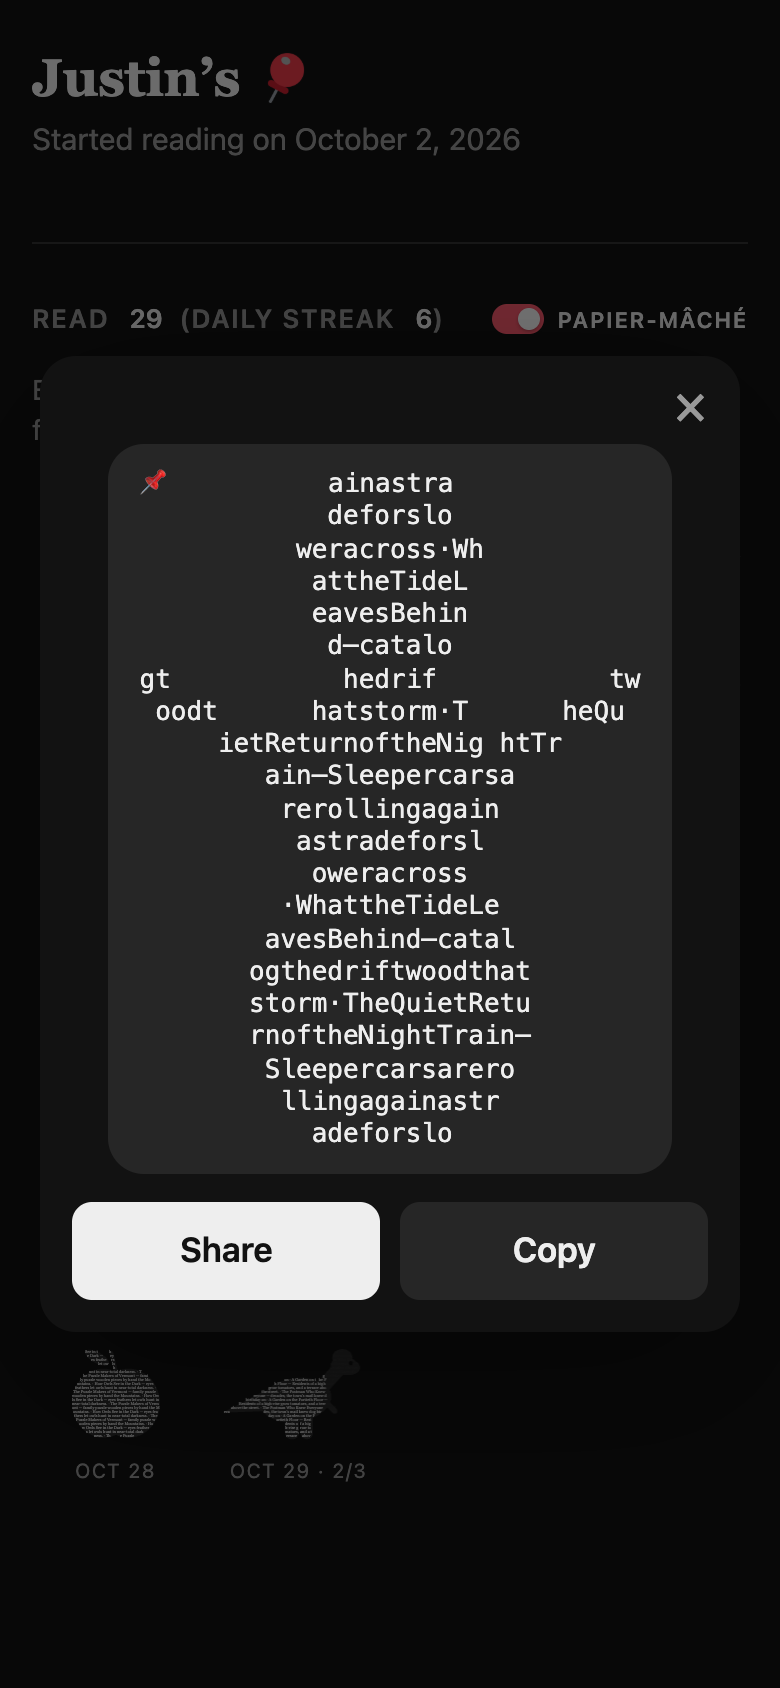
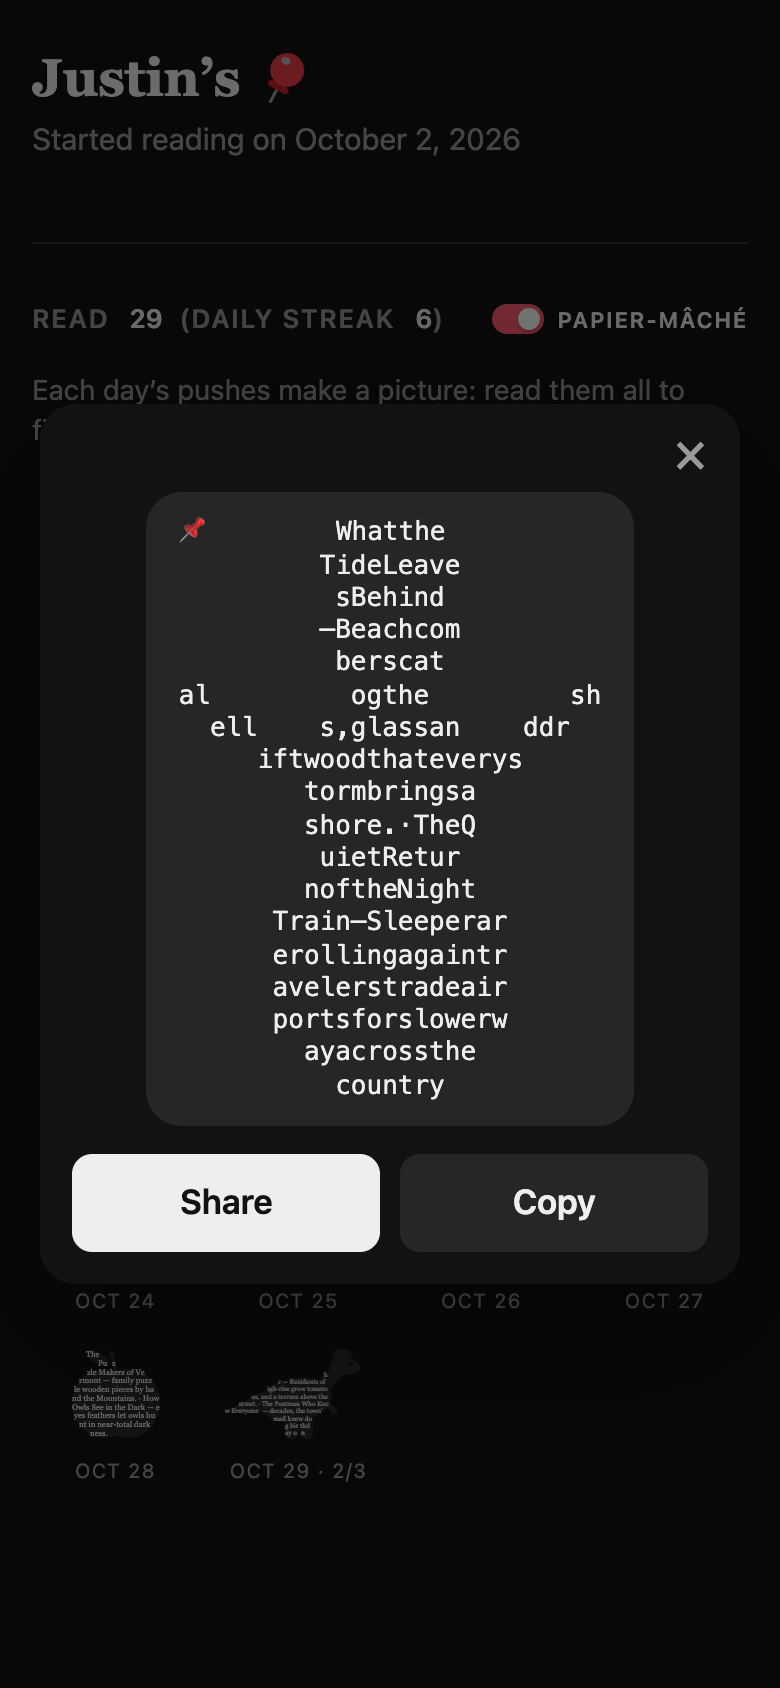
Daily pictures never repeat text: each title and abstract word used at most once; share grid sized to the words with random abstract words dropped to fit; profile pictures use the largest type that fits, in 3% steps

diff --git a/src/pushpin/cards.py b/src/pushpin/cards.py
@@ -604,23 +604,29 @@ function dino(c, w, h, flip, kind) {
   c.restore();
 }
 // Lays the words out inside the dinosaur's silhouette, w x h: [char, x, y] for each glyph.
-function layout(w, h, words, flip, kind, fs) {
+// Where the shape is, w x h: a test for whether a pixel is inside it.
+function silhouette(w, h, flip, kind) {
   const m = document.createElement('canvas'); m.width = w; m.height = h;
   const mc = m.getContext('2d'); dino(mc, w, h, flip, kind);
-  const mask = mc.getImageData(0, 0, w, h).data, inside = (x, y) => mask[(y * w + x) * 4 + 3] > 127;
-  const lh = Math.round(fs * 1.1);
+  const mask = mc.getImageData(0, 0, w, h).data;
+  return (x, y) => mask[(y * w + x) * 4 + 3] > 127;
+}
+// Lays the text out once inside the shape, w x h, in type of size fs: [char, x, y] for each
+// glyph, and whether all of the text fit. Nothing repeats; what doesn't fit is left out.
+function layout(w, h, text, inside, fs) {
+  const lh = fs * 1.1, mc = document.createElement('canvas').getContext('2d');
   mc.font = fs + 'px Georgia, "Times New Roman", serif';
-  const text = typeof words === 'string' ? words : words.join(' · ') + ' · ', widths = {};  // a day's text, or a list to join
-  const width = ch => widths[ch] ??= mc.measureText(ch).width;
+  const widths = {}, width = ch => widths[ch] ??= mc.measureText(ch).width;
   const glyphs = []; let i = 0;
-  for (let y = Math.round(lh / 2); y < h; y += lh) {
+  for (let row = lh / 2; row < h && i < text.length; row += lh) {
+    const y = Math.round(row);
     let x = 0;
-    while (x < w) {
+    while (x < w && i < text.length) {
       while (x < w && !inside(x, y)) x++;
       let end = x; while (end < w && inside(end, y)) end++;
-      let cx = x, guard = 0;
-      while (guard++ < 400) {
-        const ch = text[i % text.length];
+      let cx = x;
+      while (i < text.length) {
+        const ch = text[i];
         if (cx === x && ch === ' ') { i++; continue; }
         if (cx + width(ch) > end) break;
         glyphs.push([ch, cx, y]); cx += width(ch); i++;
@@ -628,16 +634,25 @@ function layout(w, h, words, flip, kind, fs) {
       x = end + 1;
     }
   }
-  return glyphs;
+  return {glyphs, fit: i >= text.length};
 }
-function draw(canvas, words, built, flip, animate, kind, delay) {
+// The largest type at which all of the text fits in the shape once, in steps of 3% so the text
+// fills the shape closely (whole pixels jump too far at small sizes).
+function fitted(w, h, text, inside, top) {
+  for (let fs = top; fs > 2; fs *= 0.97) {
+    const l = layout(w, h, text, inside, fs);
+    if (l.fit) return {...l, fs};
+  }
+  return {...layout(w, h, text, inside, 2), fs: 2};
+}
+function draw(canvas, text, built, flip, animate, kind, delay) {
   const dpr = window.devicePixelRatio || 1; let w = Math.round(canvas.clientWidth), h = Math.round(w * 0.64);
   canvas.style.height = h + 'px'; canvas.width = w * dpr; canvas.height = h * dpr;
   const c = canvas.getContext('2d');
   // laid out in device pixels, so the type can be smaller than a CSS pixel allows: the silhouette
   // reads at a glance, the headline up close
-  const W = w * dpr, H = h * dpr, fs = Math.max(3, Math.round(W / 44));
-  const glyphs = layout(W, H, words, flip, kind, fs);
+  const W = w * dpr, H = h * dpr;
+  const {glyphs, fs} = fitted(W, H, text, silhouette(W, H, flip, kind), Math.round(W / 4));
   [w, h] = [W, H];
   // a faint silhouette under the words: legs and spikes too thin for a letter still show
   const ghost = document.createElement('canvas'); ghost.width = w; ghost.height = h;
@@ -674,37 +689,51 @@ function draw(canvas, words, built, flip, animate, kind, delay) {
 // on a character grid, with spaces around it and a pin in the top left corner. It lines up in a
 // monospace font; in a chat's proportional one it leans and wobbles, which is part of the charm.
 const COLS = 32;
-function textDino(text, kind, flip) {
-  const w = 400, h = 256, m = document.createElement('canvas'); m.width = w; m.height = h;
-  const mc = m.getContext('2d'); dino(mc, w, h, flip, kind);
-  const a = mc.getImageData(0, 0, w, h).data, on = (x, y) => a[(y * w + x) * 4 + 3] > 127;
-  let x0 = w, x1 = 0, y0 = h, y1 = 0;  // crop to the dinosaur
+function textDino(day, kind) {
+  const w = 400, h = 256, on = silhouette(w, h, day.flip, kind);
+  let x0 = w, x1 = 0, y0 = h, y1 = 0;  // crop to the shape
   for (let y = 0; y < h; y++) for (let x = 0; x < w; x++) if (on(x, y)) {
     x0 = Math.min(x0, x); x1 = Math.max(x1, x); y0 = Math.min(y0, y); y1 = Math.max(y1, y);
   }
-  const cw = (x1 - x0 + 1) / COLS, ch = cw * 2, rows = Math.round((y1 - y0 + 1) / ch);  // a character is about twice as tall as wide
-  const cell = (c, r) => {  // inside when a good part of the cell is, so legs and spikes keep a letter
-    let n = 0, t = 0;
-    for (let y = Math.floor(y0 + r * ch); y < Math.min(y1 + 1, y0 + (r + 1) * ch); y++)
-      for (let x = Math.floor(x0 + c * cw); x < Math.min(x1 + 1, x0 + (c + 1) * cw); x++) { t++; if (on(x, y)) n++; }
-    return t && n / t > 0.3;
+  const grid = cols => {  // which cells of a cols-wide grid are inside the shape
+    const cw = (x1 - x0 + 1) / cols, ch = cw * 2, rows = Math.round((y1 - y0 + 1) / ch);  // a character is about twice as tall as wide
+    const cell = (c, r) => {  // inside when a good part of the cell is, so legs and spikes keep a letter
+      let n = 0, t = 0;
+      for (let y = Math.floor(y0 + r * ch); y < Math.min(y1 + 1, y0 + (r + 1) * ch); y++)
+        for (let x = Math.floor(x0 + c * cw); x < Math.min(x1 + 1, x0 + (c + 1) * cw); x++) { t++; if (on(x, y)) n++; }
+      return t && n / t > 0.3;
+    };
+    const cells = []; let count = 0;
+    for (let r = 0; r < rows; r++) { const row = []; for (let c = 0; c < cols; c++) { const v = cell(c, r); row.push(v); count += v; } cells.push(row); }
+    return {cells, count};
   };
-  const letters = text.replace(/\\s+/g, '');  // no spaces inside the shape, so it has no holes
-  const lines = []; let i = 0;
-  for (let r = 0; r < rows; r++) {
-    let line = '';
-    for (let c = 0; c < COLS; c++) line += cell(c, r) ? letters[i++ % letters.length] : ' ';
-    lines.push(line.trimEnd());
+  // Each title and abstract word at most once, no spaces inside the shape (so it has no holes):
+  // the widest grid the words can fill, then random abstract words dropped until they just fit.
+  const parts = day.parts.map(p => ({title: p.title.replace(/\\s+/g, ''), words: p.words.map(x => x.replace(/\\s+/g, ''))}));
+  const join = () => parts.map(p => p.title + (p.words.length ? '—' + p.words.join('') : '')).join('·');
+  let total = join().length, g = null;
+  for (let cols = COLS; cols >= 10 && !g; cols--) { const t = grid(cols); if (t.count <= total) g = t; }
+  g ??= grid(10);
+  const r = rng(day.seed + ':share'), pool = [];
+  parts.forEach((p, i) => p.words.forEach((_, j) => pool.push([i, j, r()])));
+  pool.sort((a, b) => a[2] - b[2]);
+  for (const [i, j] of pool) {
+    const n = parts[i].words[j].length + (parts[i].words.filter(Boolean).length === 1 ? 1 : 0);  // the dash goes with the last word
+    if (total - n >= g.count) { parts[i].words[j] = ''; total -= n; }
   }
+  parts.forEach(p => { p.words = p.words.filter(Boolean); });
+  const letters = join().slice(0, g.count).padEnd(g.count, '·');  // a few letters over, at most: cut at the end
+  let i = 0;
+  const lines = g.cells.map(row => row.map(v => v ? letters[i++] : ' ').join('').trimEnd());
   while (lines.length && !lines[0]) lines.shift();
   while (lines.length && !lines[lines.length - 1]) lines.pop();
-  // the pin in the top left corner, on the dinosaur's top line: it takes about two columns
-  if (!lines[0].startsWith('  ')) for (let i = 0; i < lines.length; i++) lines[i] = '   ' + lines[i];  // no room: shift it all over
+  // the pin in the top left corner, on the shape's top line: it takes about two columns
+  if (!lines[0].startsWith('  ')) for (let k = 0; k < lines.length; k++) lines[k] = '   ' + lines[k];  // no room: shift it all over
   lines[0] = '📌' + lines[0].slice(2);
   return lines.join('\\n');
 }
 let sheet = null;
-function share(text_, kind, flip) {
+function share(day, kind) {
   if (!sheet) {
     sheet = document.createElement('dialog'); sheet.className = 'sharecard';
     sheet.innerHTML = '<button type="button" class="x" aria-label="Close">×</button><pre></pre>'
@@ -713,7 +742,7 @@ function share(text_, kind, flip) {
     sheet.addEventListener('click', ev => { if (ev.target === sheet) sheet.close(); });  // the backdrop
     document.body.append(sheet);
   }
-  const text = textDino(text_, kind, flip), pre = sheet.querySelector('pre'), go = sheet.querySelector('.go'), copy = sheet.querySelector('.copy');
+  const text = textDino(day, kind), pre = sheet.querySelector('pre'), go = sheet.querySelector('.go'), copy = sheet.querySelector('.copy');
   pre.textContent = text; pre.setAttribute('aria-label', 'A ' + kind.name + ' drawn in text');
   go.hidden = !navigator.share;
   go.onclick = () => navigator.share({text}).catch(() => null);
@@ -728,15 +757,14 @@ const kindOf = herd(data.dataset.seed || '');
 // is seeded by the reader and the day, so a picture is the same each time it's drawn, no two days
 // match, and two readers who read the same articles the same day still get different pictures.
 function dayText(d) {
-  const r = rng((data.dataset.seed || 'demo') + ':' + d.day);
+  const seed = (data.dataset.seed || 'demo') + ':' + d.day, r = rng(seed);
   const flip = r() < 0.5;
-  if (!d.titles.length) return {text: '·', flip};
-  const parts = d.titles.map((t, i) => {
-    const kept = ((d.abstracts || [])[i] || '').split(/\\s+/).filter(w => w && r() < 0.55);
-    return kept.length ? t + ' — ' + kept.join(' ') : t;
-  });
-  const all = parts.join(' · ') + ' · ', at = Math.floor(r() * all.length);
-  return {text: all.slice(at) + all.slice(0, at), flip};
+  const parts = d.titles.map((title, i) => ({title, words: ((d.abstracts || [])[i] || '').split(/\\s+/).filter(Boolean)}));
+  const text = parts.length ? parts.map(p => {
+    const kept = p.words.filter(() => r() < 0.55);  // the picture on the profile: some of each abstract
+    return kept.length ? p.title + ' — ' + kept.join(' ') : p.title;
+  }).join(' · ') : '·';
+  return {text, flip, parts, seed};
 }
 const MONTHS = ['Jan', 'Feb', 'Mar', 'Apr', 'May', 'Jun', 'Jul', 'Aug', 'Sep', 'Oct', 'Nov', 'Dec'];
 function build(animate) {
@@ -753,7 +781,7 @@ function build(animate) {
       const tap = document.createElement('button');
       tap.type = 'button'; tap.className = 'dino'; tap.title = kind.name + ' · ' + when;
       tap.setAttribute('aria-label', 'Share the ' + kind.name + ' for ' + when);
-      tap.append(canvas); tap.addEventListener('click', () => share(day.text, kind, day.flip));
+      tap.append(canvas); tap.addEventListener('click', () => share(day, kind));
       fig.append(tap);
     } else {
       const still = document.createElement('div');  // not finished: nothing to share yet

diff --git a/tests/test_notifier.py b/tests/test_notifier.py
@@ -582,7 +582,7 @@ def test_demo_page_shows_dinosaurs_and_stores_nothing(setup):
     data = json.loads(re.search(r'id="papier-data"[^>]*>(.*?)</script>', page).group(1))
     assert len(data) == 22 and {"day": "2026-10-14", "sent": 2, "titles": [], "abstracts": []} in data  # a day with nothing read
     assert all(len(d["abstracts"]) == len(d["titles"]) and all(d["abstracts"]) for d in data)  # titles and abstracts
-    assert "function dayText(d)" in page and "rng((data.dataset.seed || 'demo') + ':' + d.day)" in page  # seeded per reader and day
+    assert "function dayText(d)" in page and "const seed = (data.dataset.seed || 'demo') + ':' + d.day, r = rng(seed)" in page  # seeded per reader and day
     assert store.reader_count() == 0 and db("SELECT COUNT(*) AS n FROM interactions")["n"].item() == 0
 
 

diff --git a/docs/demo-screens.md b/docs/demo-screens.md
@@ -42,29 +42,33 @@ It opens on a title card and goes to the profile when tapped.
 <img src="screens/demo-profile.png" width="300" alt="Demo profile: Read 29, a grid of small papier-mâché pictures, one a day: a snowman, dinosaurs, a heart, a star, a moon, a tree and more, a few unfinished">
 
 Each day's pushes make one small papier-mâché picture out of the articles read that day: their
-titles and some of their abstracts' words. The pictures are common symbols (snowman, heart, star,
-sun, moon, pine tree, umbrella, house, cat, fish, apple, cloud, lightning bolt, coffee cup,
-flower, music note, balloon), taking turns with the dinosaurs. A picture fills in from one side as
-the day's pushes are read and is finished only when all of them are. An unfinished one is
-pencilled in, with how many were read under its date (Oct 9 · 2/3); a day with nothing read is a
-blank outline (Oct 14 · 0/2). The demo has 22 days, 18 of them finished, and they all fit on one
-screen. A faint silhouette sits under the words so each shape reads at this size.
+titles and some of their abstracts' words, each used once, in type sized so they fill the shape
+(bigger on a day with one article, smaller on a busy one). The pictures are common symbols
+(snowman, heart, star, sun, moon, pine tree, umbrella, house, cat, fish, apple, cloud, lightning
+bolt, coffee cup, flower, music note, balloon), taking turns with the dinosaurs. A picture fills
+in from one side as the day's pushes are read and is finished only when all of them are. An
+unfinished one is pencilled in, with how many were read under its date (Oct 9 · 2/3); a day with
+nothing read is a blank outline (Oct 14 · 0/2). The demo has 22 days, 18 of them finished, and
+they all fit on one screen. A faint silhouette sits under the words so each shape reads at this
+size.
 
 ## 4. Sharing a picture
 
 Tapping a finished picture opens it as text, ready to paste into any chat: the shape spelled out
-on a 32-character grid, with plain spaces around it and 📌 in the top left corner, on the top line.
-The letters come from that day's read articles: every title, each followed by some of its
-abstract's words (a random selection, kept in order). The spaces between words are dropped inside
-the shape so it has no holes. **Share** opens the phone's share sheet with the text, and **Copy**
-copies it. Browsers without a share sheet only show Copy. Unfinished pictures can't be shared yet.
+in the letters of that day's read articles, with plain spaces around it and 📌 in the top left
+corner, on the top line. Nothing repeats: every title appears once, each followed by as many of
+its abstract's words as fit (random ones are dropped until the letters fill the shape exactly),
+and the grid is as wide as the words can fill, up to 32 characters. The spaces between words are
+dropped inside the shape so it has no holes. **Share** opens the phone's share sheet with the
+text, and **Copy** copies it. Browsers without a share sheet only show Copy. Unfinished pictures
+can't be shared yet.
 
 Each picture is unique. A generator seeded with the reader and the day picks which abstract words
-are kept, where the text starts and which way the shape faces, and each reader has their own order
-of shapes. Different days get different pictures, and so do two readers who read the same
-articles on the same day. A repeat isn't strictly impossible, but with billions of variants it's
-vanishingly unlikely. On the demo all 18 finished days are different, and two test readers with
-identical reads differed on every day.
+are kept and which way the shape faces, and each reader has their own order of shapes. Different
+days get different pictures, and so do two readers who read the same articles on the same day. A
+repeat isn't strictly impossible, but with billions of variants it's vanishingly unlikely. On the
+demo all 18 finished days are different, and two test readers with identical reads differed on
+every day.
 
 It lines up in a monospace font. In a chat's proportional font the rows shift a little, and that's
 fine.
@@ -74,40 +78,35 @@ fine.
 What the demo's first two pictures share as, the snowman and a Brontosaurus:
 
 ```
-📌          ainastra
-            deforslo
-          weracross·Wh
-           attheTideL
-           eavesBehin
-            d—catalo
-gt           hedrif           tw
- oodt      hatstorm·T      heQu
-     ietReturnoftheNig htTr
-        ain—Sleepercarsa
-         rerollingagain
-          astradeforsl
-           oweracross
-         ·WhattheTideLe
-        avesBehind—catal
-       ogthedriftwoodthat
-       storm·TheQuietRetu
-       rnoftheNightTrain—
-        Sleepercarsarero
-         llingagainastr
-           adeforslo
+📌        Whatthe
+         TideLeave
+          sBehind
+         —Beachcom
+          berscat
+al         ogthe         sh
+  ell    s,glassan    ddr
+     iftwoodthateverys
+        tormbringsa
+        shore.·TheQ
+         uietRetur
+        noftheNight
+      Train—Sleeperar
+      erollingagaintr
+      avelerstradeair
+      portsforslowerw
+        ayacrossthe
+          country
 ```
 
 ```
-📌 thatso
-   akandgr
-      aydays
-        intoadraw.·ACity
-         LearnstoLoveItsRain
-          —Afterofonecitybuiltt
-          hatsoakandgraydaysintoa
-           draw.·ACityLearnstoLoveI
-           tsRain —After
-           ofonec itybui
+📌 ACityL
+   earnsto
+      LoveIt
+        sRain—Afteryear
+         soffloods,onecityb
+         uiltparksthatsoakups
+          tormsandturnedgrayday
+          sinto draw.
 ```
 
 ## Before the first push: the welcome page
